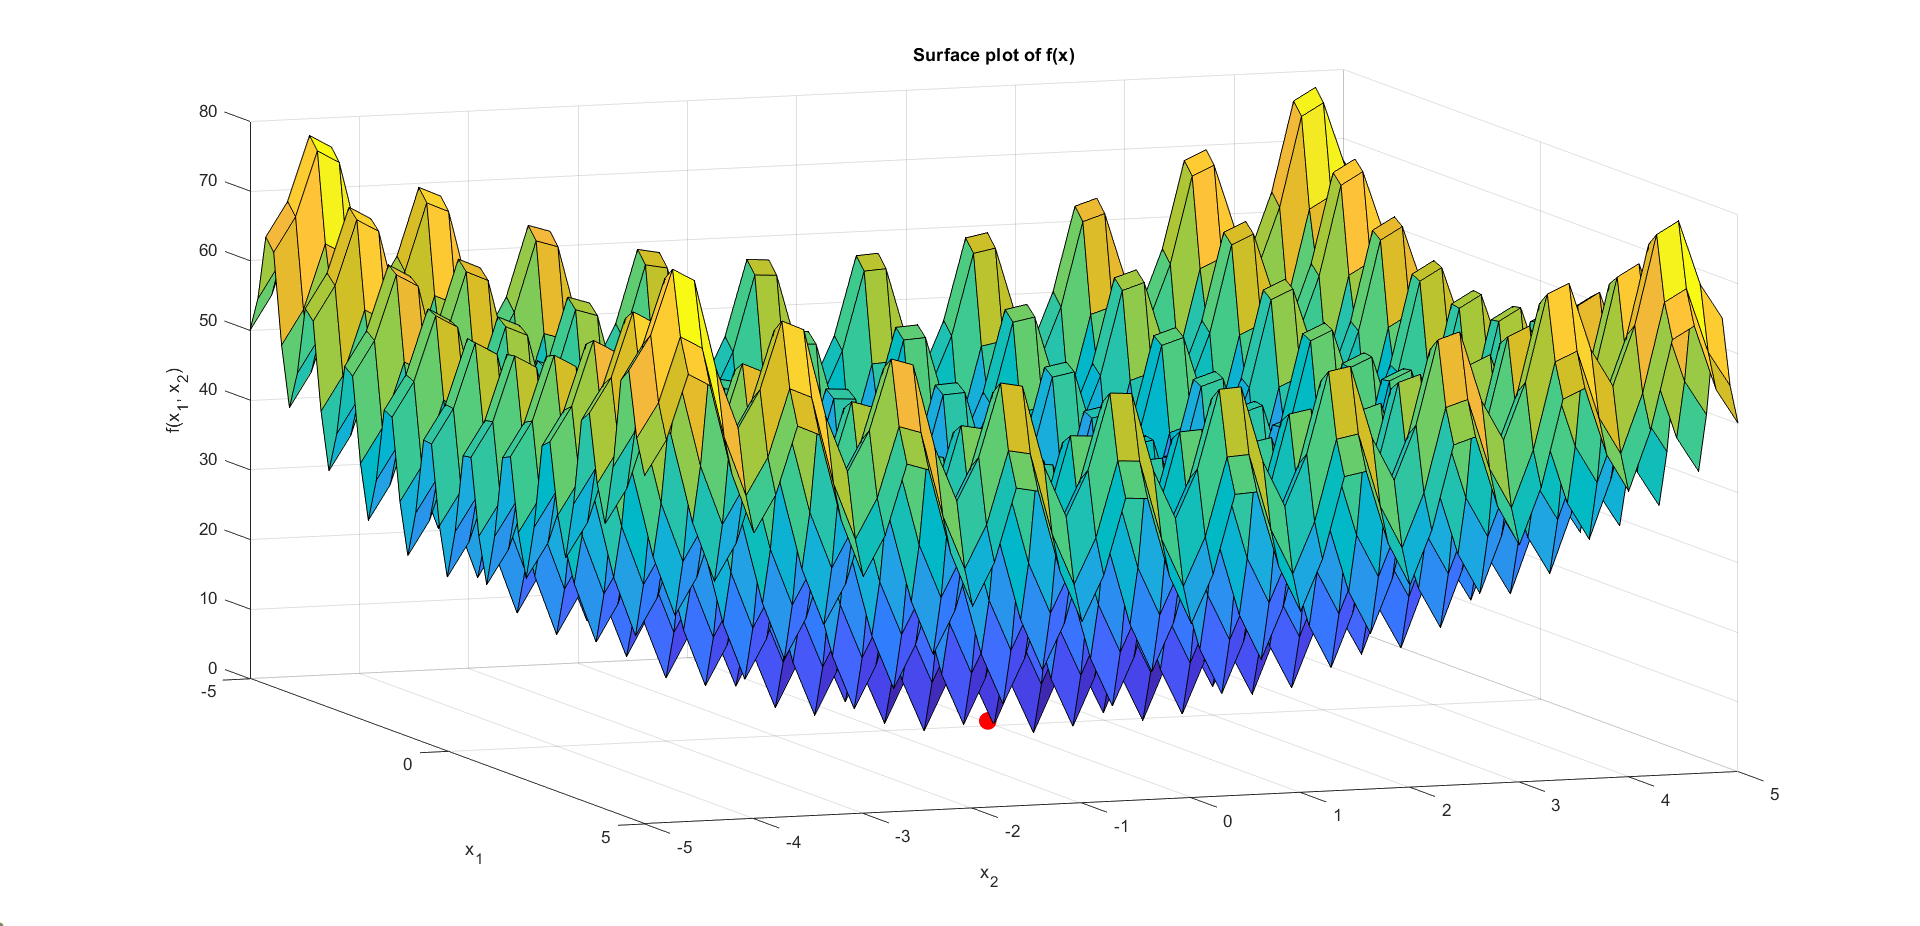
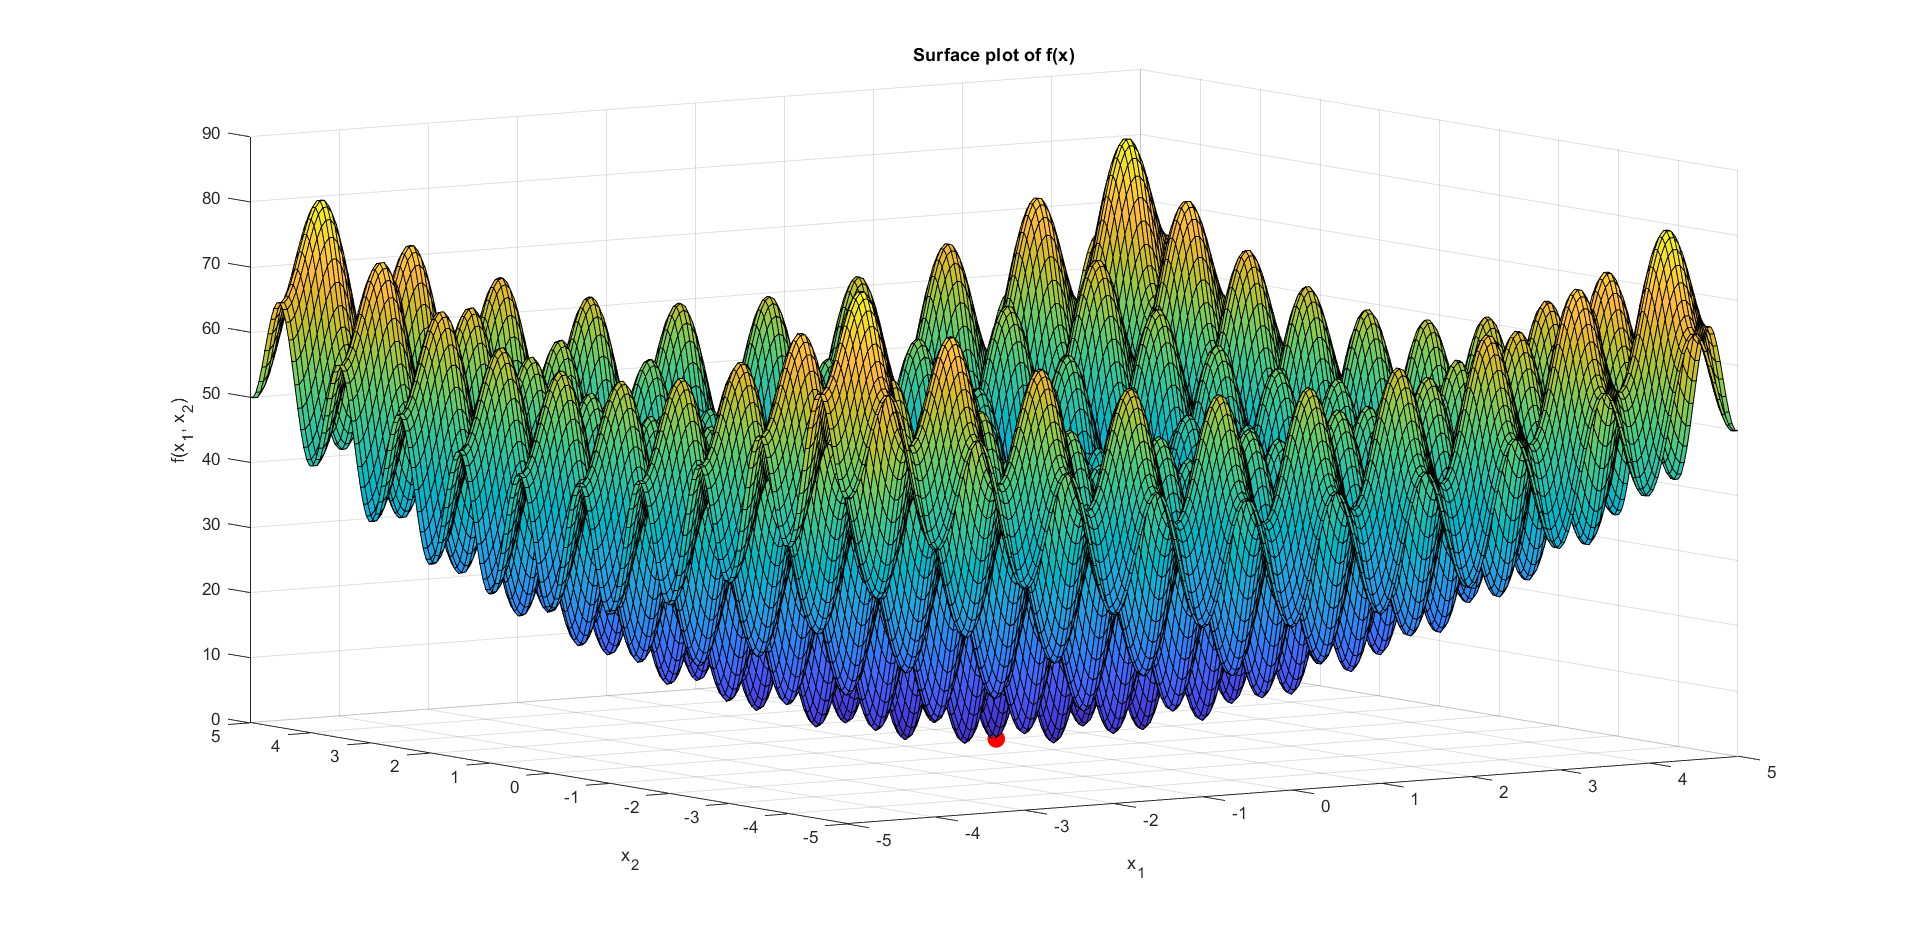
v1.0.0

diff --git a/index.html b/index.html
@@ -56,21 +56,31 @@
     <ul>
 
       <li>
+        <a href="https://github.com/gkeiel/ups_simulation" target="_blank">UPS simulation</a>
+        <p>MATLAB-PSIM simulation and control of UPS systems.</p>
+        <img src="images/output_stage.png" alt="Screenshot of Project">
+        <div class="gallery">
+          <img src="images/ups_h4_lin.png" alt="Screenshot of Project">
+          <img src="images/ups_h4_nlin.png" alt="Screenshot of Project">
+        </div>
+      </li>
+
+      <li>
         <a href="https://github.com/gkeiel/optimization" target="_blank">Optimization techniques</a>
         <p>Repository of MATLAB codes for mathematical and heuristic optimization.</p>
-        <img src="images/optimization.png" alt="Screenshot of Project 1">
+        <img src="images/optimization.png" alt="Screenshot of Project">
       </li>
 
       <li>
         <a href="https://github.com/gkeiel/PID_based_design" target="_blank">PID-based robust design</a>
         <p>A MATLAB code for designing robust PID-based controllers and current feedback gains for UPS systems.</p>
-        <img src="images/PID_based_robust_design.png" alt="Screenshot of Project 1">
+        <img src="images/PID_based_robust_design.png" alt="Screenshot of Project">
       </li>
 
       <li>
         <a href="https://github.com/gkeiel/PMR_robust_design" target="_blank">PMR robust design</a>
         <p>A MATLAB code for designing robust PMR controllers and current feedback gains for UPS systems.</p>
-        <img src="images/PMR_robust_design.png" alt="Screenshot of Project 1">
+        <img src="images/PMR_robust_design.png" alt="Screenshot of Project">
       </li>
 
       <li>

diff --git a/styles.css b/styles.css
@@ -60,11 +60,29 @@ a:hover {
 
 /* Images */
 img {
-  max-width: 100%;
+  display: block;       /* permite margin auto funcionar */
+  margin: 10px auto;    /* centraliza horizontalmente */
+  max-width: 80%;
   height: auto;
-  border: 1px solid #ccc;
   margin-top: 10px;
   border-radius: 5px;
+  border: 1px solid #ccc;
+}
+
+.gallery {
+  display: flex;            /* imagens lado a lado */
+  justify-content: center;  /* centraliza horizontalmente */
+  gap: 10px;                /* espaçamento entre imagens */
+  flex-wrap: wrap;          /* quebra em telas pequenas */
+  margin-top: 10px;         /* distância do texto acima */
+}
+
+.gallery img {
+  flex: 0 1 auto;           /* imagens ocupam espaço igual, mínimo de 200px */
+  max-width: 250px;         /* evita que fiquem muito grandes */
+  height: auto;             /* mantém proporção */
+  border-radius: 5px;
+  border: 1px solid #ccc;
 }
 
 /* Project list */
